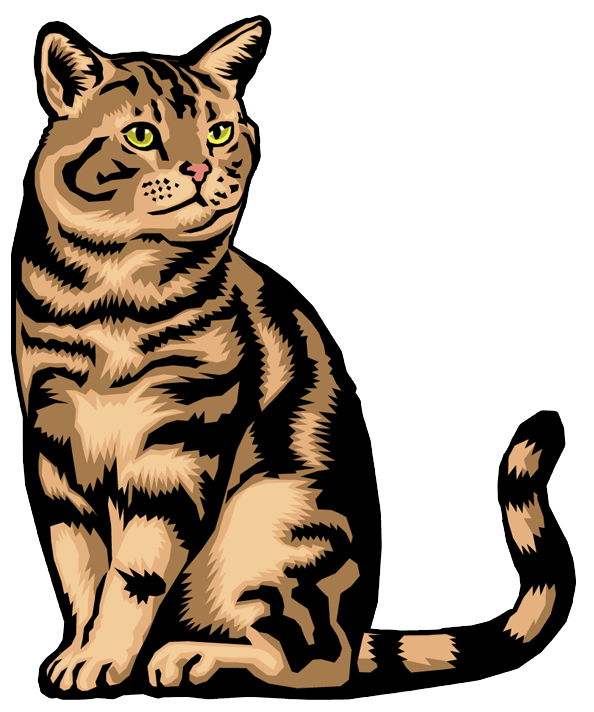
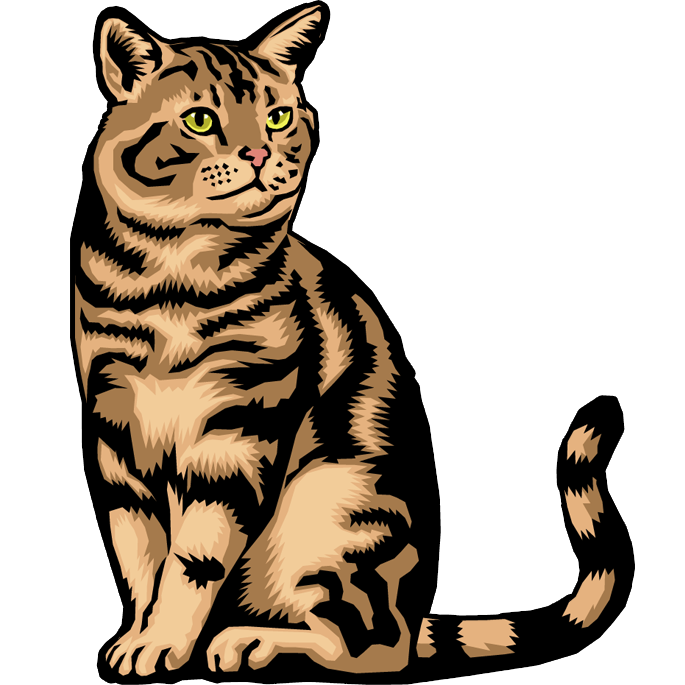
fixing sounds and spaces

diff --git a/cat.html b/cat.html
@@ -42,7 +42,7 @@
 <body>
 
 <!-- Logo and Navigation -->
-	<div class="fixed-top">
+	<div id="navigation" class="fixed-top">
 		<a href="index.html"><img id="logo" class="float-left pt-2 ml-2" src="assets/images/logo.png" alt="logo"></a>
 
 		<nav id="hamburger" class="float-right">
@@ -65,30 +65,29 @@
 
 <!-- Cat Page Content -->
 	<main class="container-fluid">
-		<header id="cat-header" data-aos="fade-down" data-aos-easing="linear" data-aos-duration="1000">
-			<h1>Cat Lair</h1>
-		</header> <!-- end of header -->
+		<section id="cat-top">
+			<header id="story-header" data-aos="fade-down" data-aos-easing="linear" data-aos-duration="1000">
+				<h1>Cat Lair</h1>
+			</header> <!-- end of header -->
 
+			<div id="cat-section">
+				<div class="row">
+					<div id="cat-img" class="col-12 col-md-4 col-lg-4 offset-lg-1">
+						<a onmouseover="playclip1();"><img src="assets/images/catboss.png" class="img-fluid" data-aos="zoom-out-left" data-aos-delay="1500" data-aos-duration="1000" alt="The Great Catsby"></a>
+					</div>
 
-		<section id="cat-section">
-			<div class="row">
+					<div class="col-12 col-md-8 col-lg-6">
+						<h2 id="story-title" data-aos="flip-down" data-aos-easing="ease-out-cubic" data-aos-delay="1500" data-aos-duration="1000">The Great Catsby</h2>
 
-				<div id="cat-img" class="col-5 col-md-4 col-lg-4 offset-lg-1">
-					<a onmouseover="playclip1();"><img src="assets/images/catboss.png" class="img-fluid" data-aos="zoom-out-left" data-aos-delay="1500"data-aos-duration="1000" alt="The Great Catsby"></a>
-				</div>
+						<div id="cat-message" data-aos="fade-in" data-aos-easing="ease-out-cubic" data-aos-delay="1500" data-aos-duration="1000">
+							<p id="cat-info">Welcome to the Cat Lair! It is I, The Great Catsby. You did a great job joining me.</p>
 
-				<div class="col-7 col-md-8 col-lg-6">
-					<h2 id="story-title" data-aos="flip-down" data-aos-easing="ease-out-cubic" data-aos-delay="1500" data-aos-duration="1000">The Great Catsby</h2>
-
-					<div id="cat-message" data-aos="flip-down" data-aos-easing="ease-out-cubic" data-aos-delay="1500" data-aos-duration="1000">
-						<p id="cat-info">Welcome to the Cat Lair! It is I, The Great Catsby. You did a great job joining me.</p>
-
-						<p id="cat-info">There is a war. And we WILL win. Now scroll down and follow my commands. Everything will be clear to you after.</p>
+							<p id="cat-info">There is a war. And we WILL win. Now scroll down and follow my commands. Everything will be clear to you after.</p>
+						</div>
 					</div>
 				</div>
-				
-			</div> <!-- end of row -->
-		</section> <!-- end of section for cats -->
+			</div> <!-- end of cat section -->
+		</section> <!-- end of cat top -->
 
 
 		<section id="cat-command-title" data-aos="fade-down" data-aos-easing="linear" data-aos-duration="800">

diff --git a/assets/css/style.css b/assets/css/style.css
@@ -329,19 +329,9 @@ li a:focus {
 
 
 /*cat page*/
-#cat-header {
-	background-image: url(../images/titlebg.png);
-	background-repeat: no-repeat;
-	background-position: center;
-	background-size: contain;
-	text-align: center;
-	height: 200px;
-	padding-top: 13vh;
-	margin-bottom: 10vh;
-}
-
 #cat-section {
 	margin-bottom: 10vh;
+	margin-top: 10vh;
 }
 
 #cat-message {
@@ -367,6 +357,7 @@ li a:focus {
 	height: 175px;
 	padding-top: 13vh;
 	margin-bottom: 10vh;
+	margin-top: 10vh;
 }
 
 
@@ -383,7 +374,7 @@ li a:focus {
 
 #cat-command {
 	background-color: rgb(0,0,0,0.5);
-	margin-top: 10vh;
+	margin-top: 5vh;
 	padding: 10px;
 	color: white;
 	text-align: center;
@@ -541,9 +532,8 @@ li a:focus {
 }
 
 #dog-top {
-	height: 100vh;
 	position: relative;
-	margin-bottom: 30vh;
+	margin-bottom: 50vh;
 }
 
 .arrow {
@@ -911,18 +901,16 @@ footer small {
 		height: 150px;
 	}
 
-	#story-section,
-	#dog-section {
-	margin-top: 5vh;
+	#story-section	{
+		margin-top: 5vh;
 	}
 /*end of story page*/
 
 
 
 /*cat page*/
-	#cat-header,
 	#cat-section {
-		margin-bottom: 5vh;
+		margin-top: 1vh;
 	}
 
 	#cat-img,
@@ -953,6 +941,10 @@ footer small {
 
 
 /*dog page*/
+	#dog-section {
+		margin-top: 1vh;
+	}
+
 	#dog-name {
 		font-size: 20px;
 	}
@@ -968,6 +960,14 @@ footer small {
 
 	#dogdlg-body {
 		padding-top: 0px!important;
+	}
+
+	.arrow {
+		bottom: -10vh;
+	}
+
+	#order {
+		order: 2;
 	}
 /*end of dog page*/
 
@@ -1063,8 +1063,7 @@ footer small {
 		height: 175px;
 	}
 
-	#story-section,
-	#dog-section {
+	#story-section {
 		margin-top: 5vh;
 	}
 /*end of story page*/
@@ -1073,13 +1072,8 @@ footer small {
 
 
 /*cat page*/
-	#cat-header,
 	#cat-section {
-		margin-bottom: 5vh;
-	}
-
-	#cat-header {
-		padding-top: 9vh;
+		margin-top: 1vh;
 	}
 
 	#cat-img,
@@ -1109,6 +1103,10 @@ footer small {
 
 
 /*dog page*/
+	#dog-section {
+		margin-top: 1vh;
+	}
+
 	#dog-header {
 		padding-top: 9vh;
 	}
@@ -1120,6 +1118,14 @@ footer small {
 
 	#dogdlg-body {
 		padding-top: 0px!important;
+	}
+
+	.arrow {
+		bottom: -10vh;
+	}
+
+	#order {
+		order: 2;
 	}
 /*end of dog page*/
 
@@ -1177,8 +1183,7 @@ footer small {
 
 /*Desktop Styles*/
 @media only screen and (min-width: 961px) {
-	#story-header,
-	#cat-header {
+	#story-header {
 		padding-top: 10vh;
 	}
 
@@ -1195,6 +1200,11 @@ footer small {
 	#cat-info,
 	#dog-info {
 		font-size: 20px;
+	}
+
+	#cat-top,
+	#dog-top {
+		height: 100vh;
 	}
 
 	#cat-modal-body {

diff --git a/dog.html b/dog.html
@@ -70,28 +70,26 @@
 			</header> <!-- end of header -->
 
 			<div id="dog-section" class="row">
-
-				<div class="col-7 col-md-8 col-lg-6 offset-lg-1">
+				<div id="order" class="col-12 col-md-8 col-lg-6 offset-lg-1">
 					<h2 id="story-title" data-aos="flip-down" data-aos-easing="ease-out-cubic" data-aos-delay="1500" data-aos-duration="1000">Bark Obama</h2>
 
-					<div id="dog-message" data-aos="flip-down" data-aos-easing="ease-out-cubic" data-aos-delay="1500" data-aos-duration="1000">
+					<div id="dog-message" data-aos="fade-in" data-aos-easing="ease-out-cubic" data-aos-delay="1500" data-aos-duration="1000">
 						<p id="dog-info">Oh! A new friend! Nice to meet you, I'm Bark. I'm glad you choosed to join me!</p>
 
 						<p id="dog-info">It seems like someone wants to talk to you. Scroll down to see who it is.</p>
 					</div>
 				</div>
 
-				<div id="dog-img" class="col-5 col-md-4 col-lg-4">
+				<div id="dog-img" class="col-12 col-md-4 col-lg-4">
 					<a onmouseover="playclip2();"><img src="assets/images/dogboss.png" class="img-fluid" data-aos="zoom-out-right" data-aos-delay="1500"data-aos-duration="1000" alt="Bark Obama"></a>
 				</div>
-				
-			</div> <!-- end of row -->
+			</div> <!-- end of dog section -->
 
 			<!-- arrow -->
 			<div class="arrow animated infinite bounce delay-2s">
 				<a href="#dog-interview"><img class="img-fluid" src="assets/images/arrow.png" alt="arrow"></a>
 			</div>
-		</section> <!-- end of section for dog -->
+		</section> <!-- end of dog top -->
 
 
 		<!-- Interview -->

diff --git a/assets/js/index.js b/assets/js/index.js
@@ -18,7 +18,7 @@ function onYouTubeIframeAPIReady() {
 }
 
 function onPlayerReady(event) {
-  event.target.setVolume(70);
+  event.target.setVolume(100);
   event.target.playVideo();
 }
 
@@ -27,6 +27,6 @@ function onPlayerStateChange(event) {
   if (event.data == YT.PlayerState.PLAYING && !done) {
     done = true;
   }
-  event.target.setVolume(70);
+  event.target.setVolume(100);
 }
 

diff --git a/assets/js/dog.js b/assets/js/dog.js
@@ -18,7 +18,7 @@ function onYouTubeIframeAPIReady() {
 }
 
 function onPlayerReady(event) {
-  event.target.setVolume(50);
+  event.target.setVolume(100);
   event.target.playVideo();
 }
 
@@ -27,5 +27,5 @@ function onPlayerStateChange(event) {
   if (event.data == YT.PlayerState.PLAYING && !done) {
     done = true;
   }
-  event.target.setVolume(50);
+  event.target.setVolume(100);
 }

diff --git a/about.html b/about.html
@@ -39,7 +39,7 @@
 <body>
 
 <!-- Logo and Navigation -->
-	<div class="fixed-top">
+	<div id="navigation" class="fixed-top">
 		<a href="index.html"><img id="logo" class="float-left pt-2 ml-2" src="assets/images/logo.png" alt="logo"></a>
 
 		<nav id="hamburger" class="float-right">

diff --git a/gallery.html b/gallery.html
@@ -39,7 +39,7 @@
 <body>
 
 <!-- Logo and Navigation -->
-	<div class="fixed-top">
+	<div id="navigation" class="fixed-top">
 		<a href="index.html"><img id="logo" class="float-left pt-2 ml-2" src="assets/images/logo.png" alt="logo"></a>
 
 		<nav id="hamburger" class="float-right">

diff --git a/index.html b/index.html
@@ -42,7 +42,7 @@
 <body>
 
 <!-- Logo and Navigation -->
-	<div class="fixed-top">
+	<div id="navigation" class="fixed-top">
 		<a href="index.html"><img id="logo" class="float-left pt-2 ml-2" src="assets/images/logo.png" alt="logo"></a>
 
 		<nav id="hamburger" class="float-right">

diff --git a/story.html b/story.html
@@ -39,7 +39,7 @@
 <body>
 
 <!-- Logo and Navigation -->
-	<div class="fixed-top">
+	<div id="navigation" class="fixed-top">
 		<a href="index.html"><img id="logo" class="float-left pt-2 ml-2" src="assets/images/logo.png" alt="logo"></a>
 
 		<nav id="hamburger" class="float-right">
